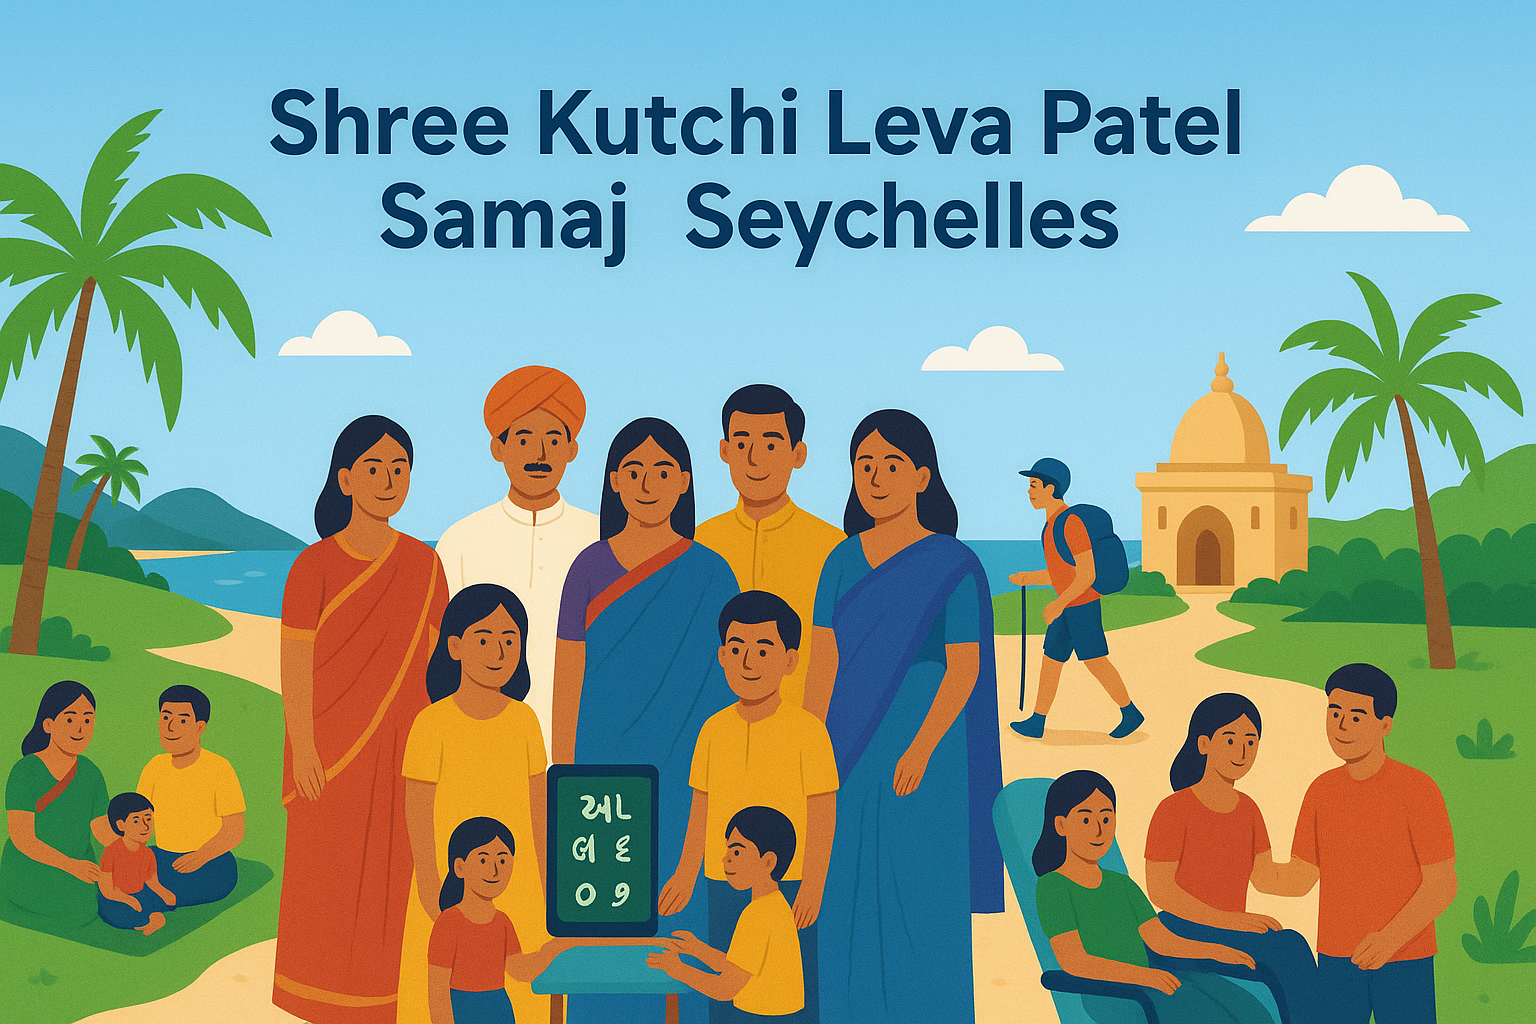
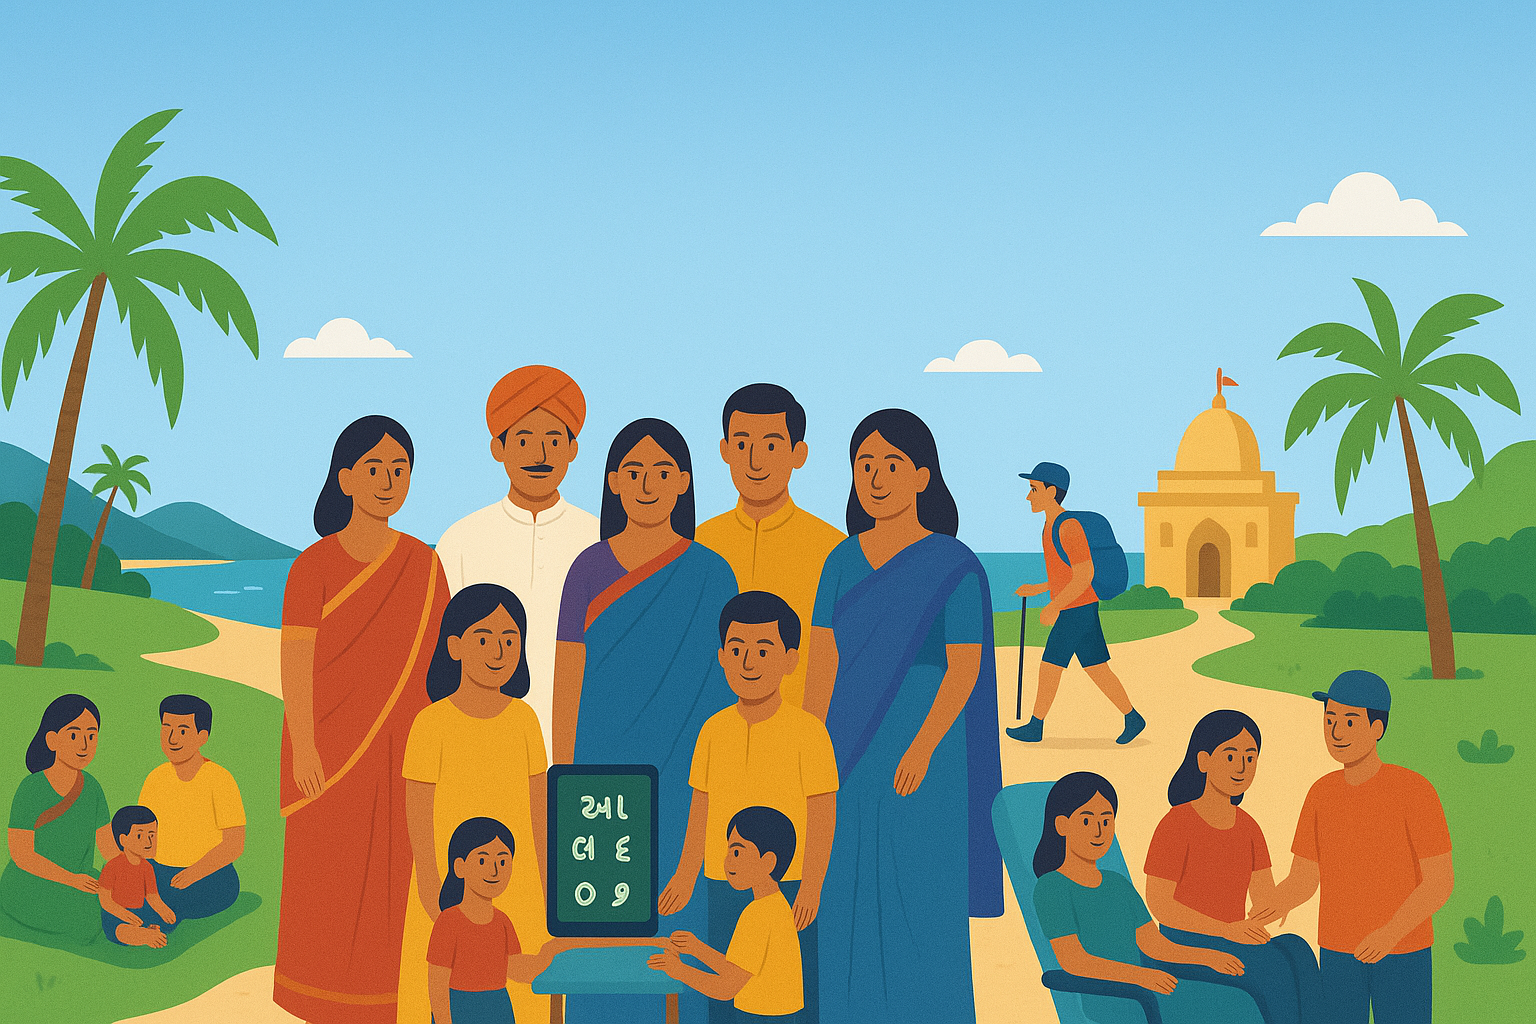
Update

diff --git a/src/Component/Pages/HomePage/Banner.js b/src/Component/Pages/HomePage/Banner.js
@@ -2,27 +2,61 @@ import React from 'react';
 import bannerImage from '../../../assets/banner.jpg';
 import hero from '../../../assets/hero.png';
 import './Banner.css';
+import { motion } from "framer-motion";
 
 export default function Banner() {
   return (
-    <div className="relative w-full my-4 px-4">
-      <div className="relative w-full rounded-2xl overflow-hidden shadow-lg">
-        <img
-          src={hero}
-          alt="Shree Kutch Leva Patel Samaj Seychelles community banner"
-          className="w-full h-full object-cover object-center"
-        />
+  <section className="relative w-full h-[90vh] sm:h-screen overflow-hidden">
+  {/* Background Image with upward offset */}
+  <img
+    src={hero}
+    alt="Shree Kutchi Leva Patel Samaj Seychelles community banner"
+    className="absolute inset-0 w-full h-full object-cover object-[center_top_-100px] transition-all duration-1000 ease-in-out"
+  />
 
-        {/* Overlay for readability and optional text */}
-        <div className="absolute inset-0 bg-black/00 flex flex-col items-center justify-center text-center text-white px-6">
-          {/* <h1 className="text-2xl sm:text-4xl lg:text-5xl font-bold drop-shadow-lg">
-            Shree Kutch Leva Patel Samaj Seychelles
-          </h1> */}
-          {/* <p className="mt-3 text-sm sm:text-lg max-w-2xl">
-            Keeping our Indian heritage alive while building unity and service in Seychelles
-          </p> */}
-        </div>
-      </div>
-    </div>
+  {/* Overlay */}
+  <div className="absolute inset-0 bg-black/40"></div>
+
+  {/* Animated Text Content */}
+  <div className="relative z-10 flex flex-col items-center justify-center text-center h-full px-6 animate-fadeInUp">
+    <h1 className="text-3xl sm:text-5xl md:text-6xl font-bold text-white drop-shadow-lg">
+      Shree Kutchi Leva Patel Samaj Seychelles
+    </h1>
+    <p className="mt-4 max-w-2xl text-lg sm:text-xl text-gray-200">
+      Keeping the spirit of the Indian diaspora alive through unity, culture, and service.
+    </p>
+
+    {/* <div className="mt-8 flex flex-wrap justify-center gap-4">
+      <button className="bg-[#F48F0F] hover:bg-[#e1810c] text-[#292929] font-semibold px-8 py-3 rounded-xl transition duration-500">
+        Join Our Community
+      </button>
+      <button className="bg-transparent border border-white text-white hover:bg-white hover:text-[#292929] font-semibold px-8 py-3 rounded-xl transition duration-500">
+        Learn More
+      </button>
+    </div> */}
+  </div>
+
+  {/* Animation Styles */}
+  <style>
+    {`
+      @keyframes fadeInUp {
+        0% {
+          opacity: 0;
+          transform: translateY(40px);
+        }
+        100% {
+          opacity: 1;
+          transform: translateY(0);
+        }
+      }
+
+      .animate-fadeInUp {
+        animation: fadeInUp 1.2s ease-out forwards;
+      }
+    `}
+  </style>
+</section>
+
+
   );
 }
